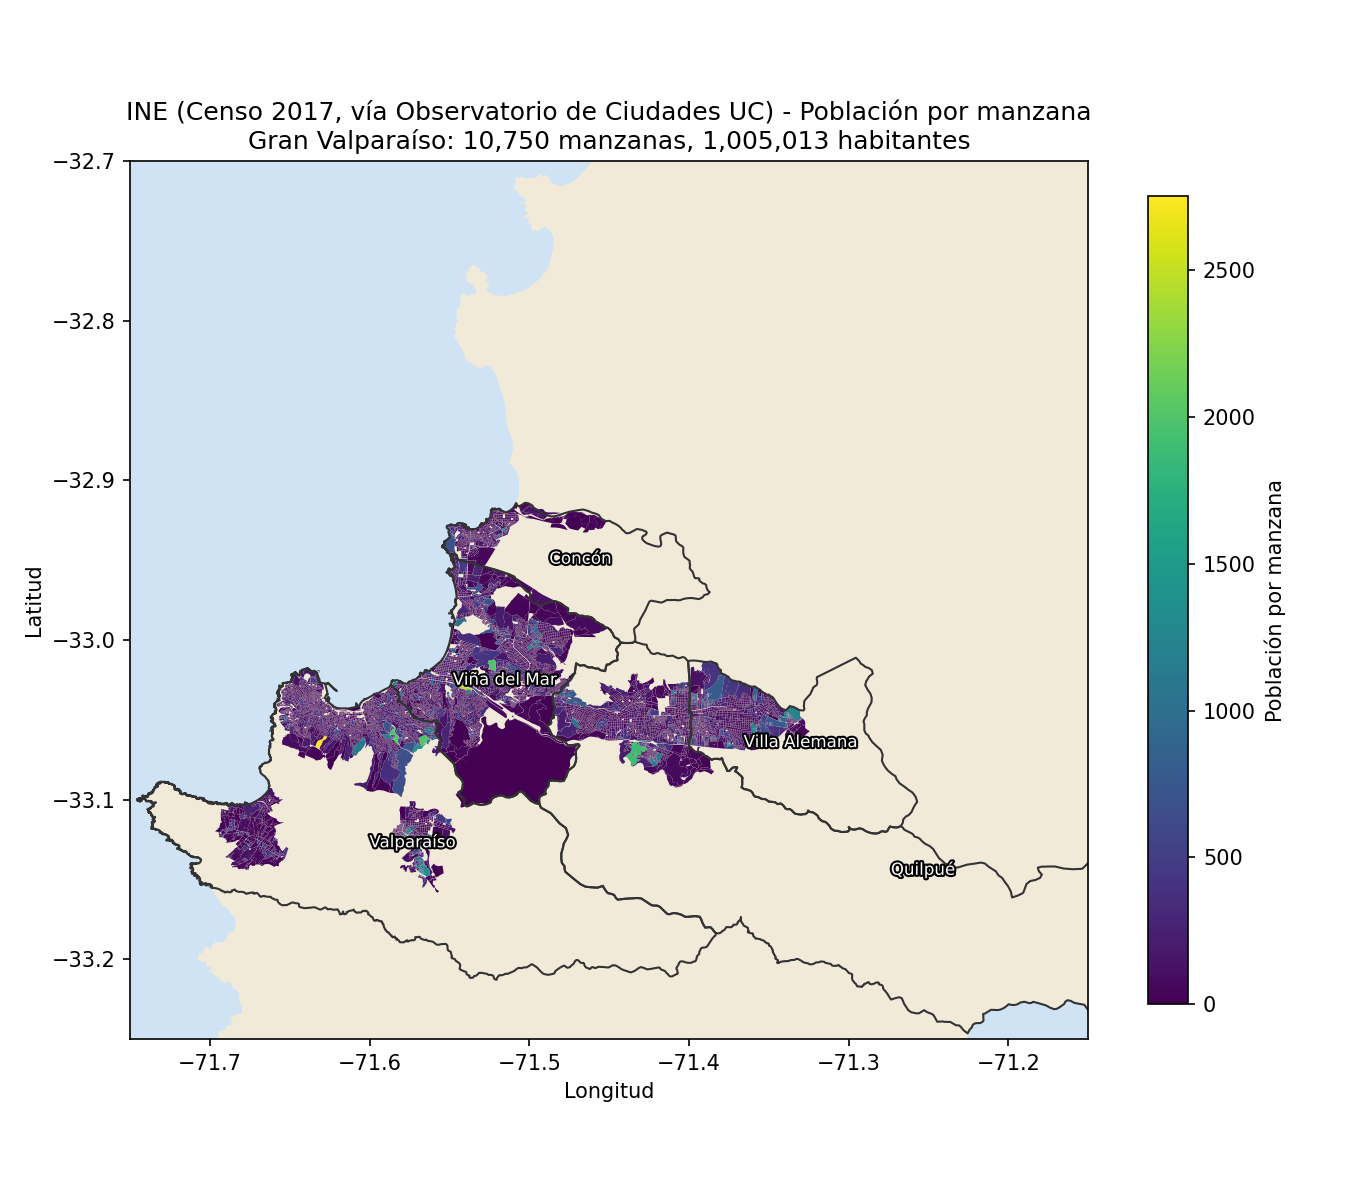
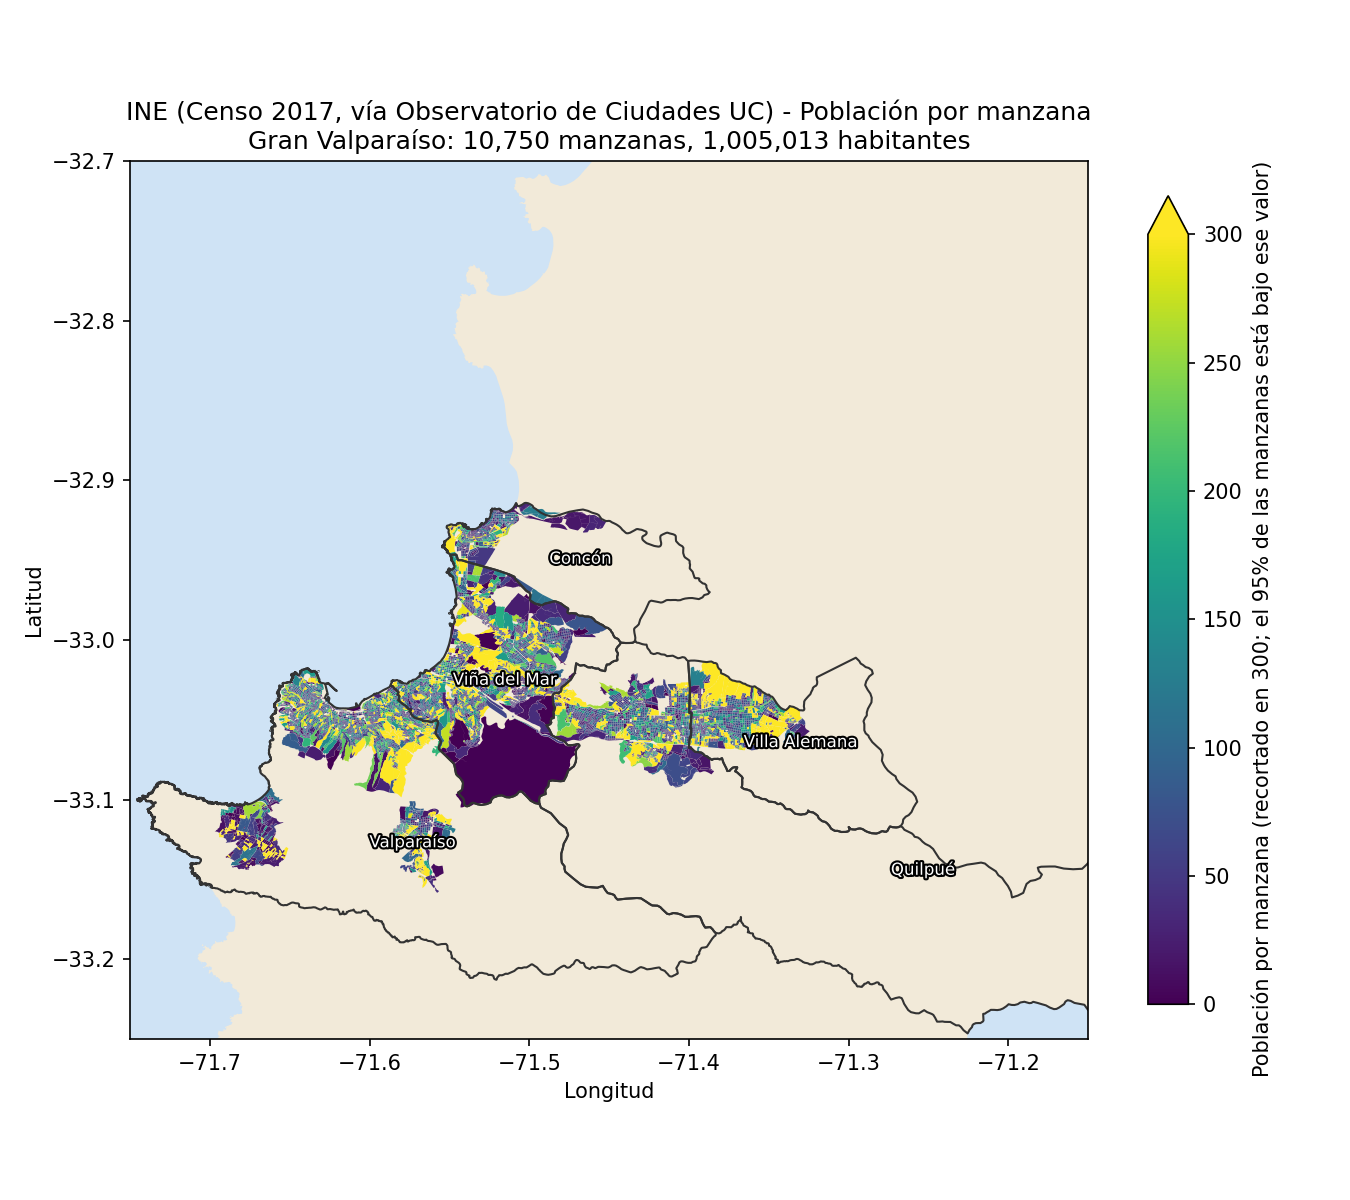
Corregir escala de color del mapa de poblacion por manzana
La escala lineal 0-max ocultaba la variacion real (mediana 58 hab/manzana,
95% <= 302) porque unas pocas manzanas densas estiraban el rango. Se recorta
en el percentil 95 (vmax=300, extend='max') para distinguir baja/media/alta
densidad.

diff --git a/codigo/generar_mapa_poblacion.py b/codigo/generar_mapa_poblacion.py
@@ -16,8 +16,15 @@ comunas = gpd.read_file(f"{EVID}/comunas_gran_valparaiso.geojson")
 fig, ax = plt.subplots(figsize=(9, 8))
 ax.set_facecolor("#cfe3f5")
 region.plot(ax=ax, facecolor="#f2ead9", edgecolor="none", zorder=0)
+# Escala 0-300: el 95% de las manzanas tiene <=302 hab. (mediana=58), y solo
+# el 0,3% supera 1.000; con una escala lineal hasta el máximo (2.754) casi
+# todo el mapa se ve del mismo color oscuro. Se recorta en el percentil 95
+# y se usa "extend" en la barra de color para señalar los valores por encima.
+VMAX = 300
 manzanas.plot(column="TOTAL_PERS", cmap="viridis", legend=True, ax=ax,
-              legend_kwds={"label": "Población por manzana", "shrink": 0.7},
+              vmin=0, vmax=VMAX,
+              legend_kwds={"label": "Población por manzana (recortado en 300; el 95% de las manzanas está bajo ese valor)",
+                           "shrink": 0.7, "extend": "max"},
               linewidth=0, zorder=1)
 comunas.plot(ax=ax, facecolor="none", edgecolor="#333333", linewidth=1.0, zorder=2)
 for _, row in comunas.iterrows():

diff --git a/codigo/RESULTADOS.md b/codigo/RESULTADOS.md
@@ -35,6 +35,12 @@ En el mapa `mapa_ine_poblacion_manzanas.png`, la comuna de Quilpué se ve casi v
 
 De paso se detectó y descartó una falsa alarma propia: al calcular el área de los polígonos comunales reproyectando a Web Mercator (EPSG:3857) da un valor ~43% más alto que el real (a esta latitud, `1/cos²(33°) ≈ 1,42`, que es justo el factor de más que aparecía). El campo `area` nativo del Feature Service de CONAF (en hectáreas) sí coincide con las superficies oficiales (ej. Quilpué: 534,8 km² del servicio vs. 536,9 km² oficial). Para cualquier cálculo de área en la Tarea 2 hay que reproyectar a un CRS proyectado adecuado para Chile (ej. UTM 19S / EPSG:32719), nunca usar Web Mercator para mediciones.
 
+## Corrección de escala de color en el mapa de población por manzana
+
+La primera versión del mapa usaba una escala de color lineal de 0 hasta el máximo real (2.754 hab./manzana), lo que hacía ver casi todo el mapa del mismo color oscuro. La distribución real es muy sesgada: mediana de **58 habitantes por manzana**, y el **95% de las 10.750 manzanas tiene 302 habitantes o menos** (solo 31 manzanas, 0,3%, superan 1.000). Al estirar la escala hasta el máximo, esas pocas manzanas densas (edificios altos) comprimían al resto en la parte inferior de la paleta, ocultando la variación real entre baja y media densidad.
+
+Se corrigió recortando la escala de color en 300 (percentil 95), con una flecha en la barra de color indicando "300 o más" para las manzanas por encima de ese umbral (`vmin=0, vmax=300, extend="max"` en `generar_mapa_poblacion.py`). Con esto el mapa distingue correctamente los núcleos de alta densidad (costa de Viña del Mar, Villa Alemana) de las zonas de baja densidad.
+
 ## Hallazgos a incorporar al informe
 
 1. **Reemplazar SENAPRED por CONAF como Amenaza 2**: CONAF expone, sin darse cuenta explícitamente en su sitio de contenido, un dashboard ArcGIS Online **público** con dos Feature Services REST:
